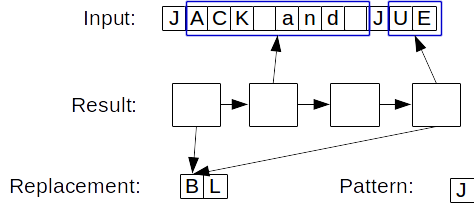
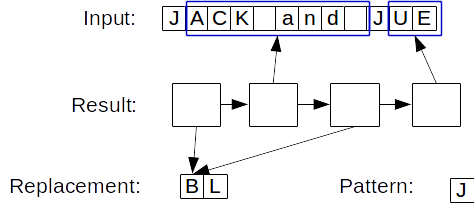
Add a lot more examples to the report

diff --git a/master-thesis.tex b/master-thesis.tex
@@ -1205,7 +1205,7 @@ Because PL/SQL programs are rather short, the lifespan of \varchar{} values is s
 
 %If built and stored inside a database table, the value itself could live for a long time, but it would not be part of the program environment. Another typical use of \varchar{} variables is for string building, typically in a loop.
 
-While these use cases are very different, we have more precise knowledge at the granularity of operations. After running analysis on more than 3500 typical PL/SQL programs, data shows that the concatenation operator is the most used, by far. It represents 76\% of all \varchar{} operation uses. If we seek to provide a high-performance implementation of this type, it is clear that we must support a very efficient concatenation operator.
+While these use cases are very different, we have more precise knowledge at the granularity of operations. After running analysis on more than 3500 typical PL/SQL programs found in already-existing database files, data shows that the concatenation operator is the most used, by far. It represents 76\% of all \varchar{} operation uses. If we seek to provide a high-performance implementation of this type, it is clear that we must support a very efficient concatenation operator.
 
 \subsection{Classic string implementations}
 
@@ -1229,6 +1229,13 @@ The simplest implementation for a string type is to use a buffer in memory to st
 
 Another standard implementation for immutable strings is called \textit{ropes} \cite{ropepaper}. This design uses concatenation trees to represent values. Concatenation is performed by creating a new node, and setting the children in the correct order. This provides very fast concatenation operator, and has proved very efficient for certain workloads.
 
+\begin{figure}[h]
+	\centering
+	\includegraphics[width=8cm]{./graphs/rope.png}
+	\caption{Example of a string using the rope representation}
+	
+\end{figure}
+
 Ropes are better used when handling long-lived and big strings. On shorter values, they tend to have a high-memory overhead. Tree traversal is also an expensive operation. Therefore, ropes might not be well-suited to our use case in PL/SQL, as \varchar{} values are typically short and short-lived. Since the database stores results from call to PL/SQL in it's own flat buffer, rope values cannot be returned without a conversion into a flat representation. This is an expensive operation to perform on trees, requiring a tree traversal that induces many virtual calls that are hard to optimize. Finally, a solution based on trees would require allocation for every value, because the pointed values are abstract classes, which cannot be easily virtualized by Graal.
 
 Because we deem both solutions to be ill-suited for our specific use, we devise a new representation for \varchar{}, tailored for PL/SQL, which uses linked-list for concatenation.
@@ -1246,11 +1253,17 @@ Because we deem both solutions to be ill-suited for our specific use, we devise 
 
 We start with the naive design, and improve on it gradually. Values in this system are represented by a \java{byte} array for the buffer, and a length attribute. Note that we do no support multiple character sets, so a \java{byte} implementation is enough for now.
 
-To improve performance, the first thing to do  is to avoid copies. The best candidate for that is the copy at the boundary between SQL and PL/SQL. When the Truffle interpreter is called, the call comes from the database environment. The values passed as arguments are therefore C structures and values. This is incompatible with the Java environment, and requires a copy / conversion to take place to represent the same value in the Java heap. Note that this happens twice per function call : once for the arguments, and once for the return values, which must be converted the other way around. This incurs a major cost, especially on repeated calls handling short strings. To avoid this overhead, we propose to support the C values directly. However, we must also support some form of Java heap value, as we can't create C values. We call \textit{native} values the ones coming from C, and \textit{heap} values the ones lying in the Java environment.
+To improve performance, the first thing to do  is to avoid copies. The best candidate for that is the copy at the boundary between SQL and PL/SQL. When the Truffle interpreter is called, the call comes from the database environment. The values passed as arguments are therefore C structures and values. This is incompatible with the Java environment, and requires a copy / conversion to take place to represent the same value in the Java heap. Note that this happens twice per function call : once for the arguments, and once for the return values, which must be converted the other way around. This incurs a major cost, especially on repeated calls handling short strings. To avoid this overhead, we propose to support the C values directly. However, we must also support some form of Java heap value, as we can't efficiently create C values. We call \textit{native} values the ones coming from C, and \textit{heap} values the ones lying in the Java environment.
+
+\begin{figure}[bt]
+	\centering
+	\includegraphics[width=10cm]{./graphs/BaseValues.png}
+	\caption{The memory representation for the two types of base values.}
+\end{figure}
 
 To cope with native C values in our Java code, we use the C API that SVM provides. This allows simple access to these structures in the Java implementation. However, this duality means that values of the type \varchar{} are not bound to a single representation anymore. We already saw a similar example when dealing with \plsnull{} and \plsi{}, so we already have the typed node structure in place, and only need to add more specializations to cover the additional cases. In order to speed up the substring operator, which does not require any copy, we add a start index field to our \varchar{} values. Together with the length, this provides a copy-free substring operation, which only changes the indexes. This will also be useful when implementing other operators.
 
-To recap, we now have two kinds of values in the interpreter to represent \varchar{} : heap values, whose buffer is a \java{byte} array in the Java heap, and native values, whose buffer is a C pointer. Both are augmented with a length and a starting index. This solution still requires copy for the concatenation operator, which we want to optimize.
+To recap, we now have two kinds of values in the interpreter to represent \varchar{} : heap values, whose buffer is a \java{byte} array in the Java heap, and native values, whose buffer is a C pointer. Both are augmented with a length and a starting index to provide efficient substring operations. This solution still requires copy for the concatenation operator, which we want to optimize.
 
 %To improve performance over the naive implementation, we must avoid copies of buffers when possible. The first step is to avoid copying the initial values supplied.
 %
@@ -1284,9 +1297,18 @@ To recap, we now have two kinds of values in the interpreter to represent \varch
 %\item flattening cheaper than tree-based ropes
 %\end{itemize}
 
-We now show how to optimize concatenation using a linked list design. The elements of the lists are \textit{base values}. We call \textit{base value} the representations based on a buffer, like the native and heap values discussed above. With this design, concatenation is very simple. We only need to make the last element of the \textit{left} list point to the \textit{right} one. 
+We now show how to optimize concatenation using a linked list design. The elements of the lists are \textit{base values}. We call \textit{base value} the representations based on a buffer, like the native and heap values discussed above.
 
-However, this simple design does not meet the immutability constraint. To fix this issue, we present \textit{horizon-based linked lists}. On top of the underlying linked list, this representation knows which nodes belong to it. Instead of assuming that the next node in the list always belong to this value, horizon-based linked lists (HBL) keep track of the number of nodes it contains. This allows for concatenation to remain cheap, but ensure immutability : the original values do not see "past" the number of nodes it contains, so it is safe to append new nodes to it.
+In this design, concatenation is very simple. Each base value is wrapped inside a linked list node. When concatenating two base values, we wrap the two inside a node, and make the left value point the the right one. When concatenating two list-based values, we only need to make the last element of the left list point to the right one. In this case, the right element can also be a base value we just wrapped in a node. Examples of these cases are shown in Figures \ref{fig:baseconcat} and \ref{fig:hblconcat}.
+
+\begin{figure}[bt]
+	\centering
+	\includegraphics[width=10cm]{./graphs/ConcatBase.png}
+	\caption[Concatenation of two base values in the linked-list design]{Concatenation of two base values in the linked-list design. The final value is the horizon-based linked list.}
+	\label{fig:baseconcat}
+\end{figure}
+
+However, this simple design does not meet the immutability constraint. Appending a new element to an already existing list changes the original value by extending it. To fix this issue, we present \textit{horizon-based linked lists}. In addition to the underlying linked list, this representation knows which nodes belong to it. Instead of assuming that the next node in the list always belong to this value, horizon-based linked lists (HBL) keep track of the number of nodes it contains. This allows for concatenation to remain cheap, but ensure immutability : the original values do not see "past" the number of nodes it contains, so it is safe to append new nodes to it.
 
 %However, we have a few added constraints that require a more complex design.
 
@@ -1301,7 +1323,7 @@ However, this simple design does not meet the immutability constraint. To fix th
 \begin{figure}[h]
 	\centering
 	\includegraphics[width=11cm]{./graphs/hblconcat.png}
-	\caption[Concatenation of two horizon-based linked lists]{Concatenation of two horizon-based linked lists. The boxes denote the scope, or horizon, of each value.}
+	\caption[Concatenation of two horizon-based linked lists]{Concatenation of two horizon-based linked lists.\\ \small The boxes denote the scope, or horizon, of each value. Notice A and B are unchanged, although their list have been modified.}
 	\label{fig:hblconcat}
 \end{figure}
 
@@ -1396,11 +1418,13 @@ This might make the type analysis harder for Graal, as the return type of some o
 
 Because builtins are the only way to use \varchar{} values, it is very important that we provide support for a good number of core builtin functions. We currently have concatenation (\pls{||}), \pls{SUBSTR}, \pls{REPLACE} and \pls{LENGTH}. These have been chosen because they are among the most commonly used operators, and because they are enough to program a lot of basic functionalities one would want for \varchar{}.
 
-We already talked about the implementations of concatenation and substring. It is interesting to note that the \pls{REPLACE} implementation we have uses concept from both of these. In our system, replacing pieces of a string does not require any copy or buffer transfer. Instead, it is the concatenation of substrings provided as input. Any part of the input string that does not match the given pattern can be reused in the result, and the replacement string can be reused wherever the pattern does match. This means re-using the buffer of the input values, without performing any copies, as shown in example \ref{fig:replaceexample}. Because we want to use the replacement string multiple times in a concatenation, we need to have it as a base value. For that, we use the same canonicalization optimization we used for substrings.
+We already talked about the implementations of concatenation and substring. For the \pls{REPLACE} builtin, we wanted to reuse these same concepts. A replace algorithm, based on a no-copy system was implemented, which would build concatenation lists, alternating between a substring from the input and a pointer to the replacement string. An example of how such an implementation works is shown in Figure \ref{fig:replaceexample}. However, following the benchmarking results, this implementation had to be changed for a simpler one, copying the result into a buffer. The original algorithm performed poorly, mainly because replacement operations already require the full string to be read, character by character. Therefore, copying each byte is not a lot more work.
+
+%It is interesting to note that the \pls{REPLACE} implementation we have uses concept from both of these. In our system, replacing pieces of a string does not require any copy or buffer transfer. Instead, it is the concatenation of substrings provided as input. Any part of the input string that does not match the given pattern can be reused in the result, and the replacement string can be reused wherever the pattern does match. This means re-using the buffer of the input values, without performing any copies, as shown in example \ref{fig:replaceexample}. Because we want to use the replacement string multiple times in a concatenation, we need to have it as a base value. For that, we use the same canonicalization optimization we used for substrings.
 
 \begin{figure}[h]
 	\centering
-	\includegraphics[width=9cm]{./graphs/ReplacementExample.png}
+	\includegraphics[width=8cm]{./graphs/ReplacementExample.png}
 	\caption{Result of the operation \pls{REPLACE('JACK and JUE', 'J', 'BL')}, using list representation}
 	\label{fig:replaceexample}
 \end{figure}
